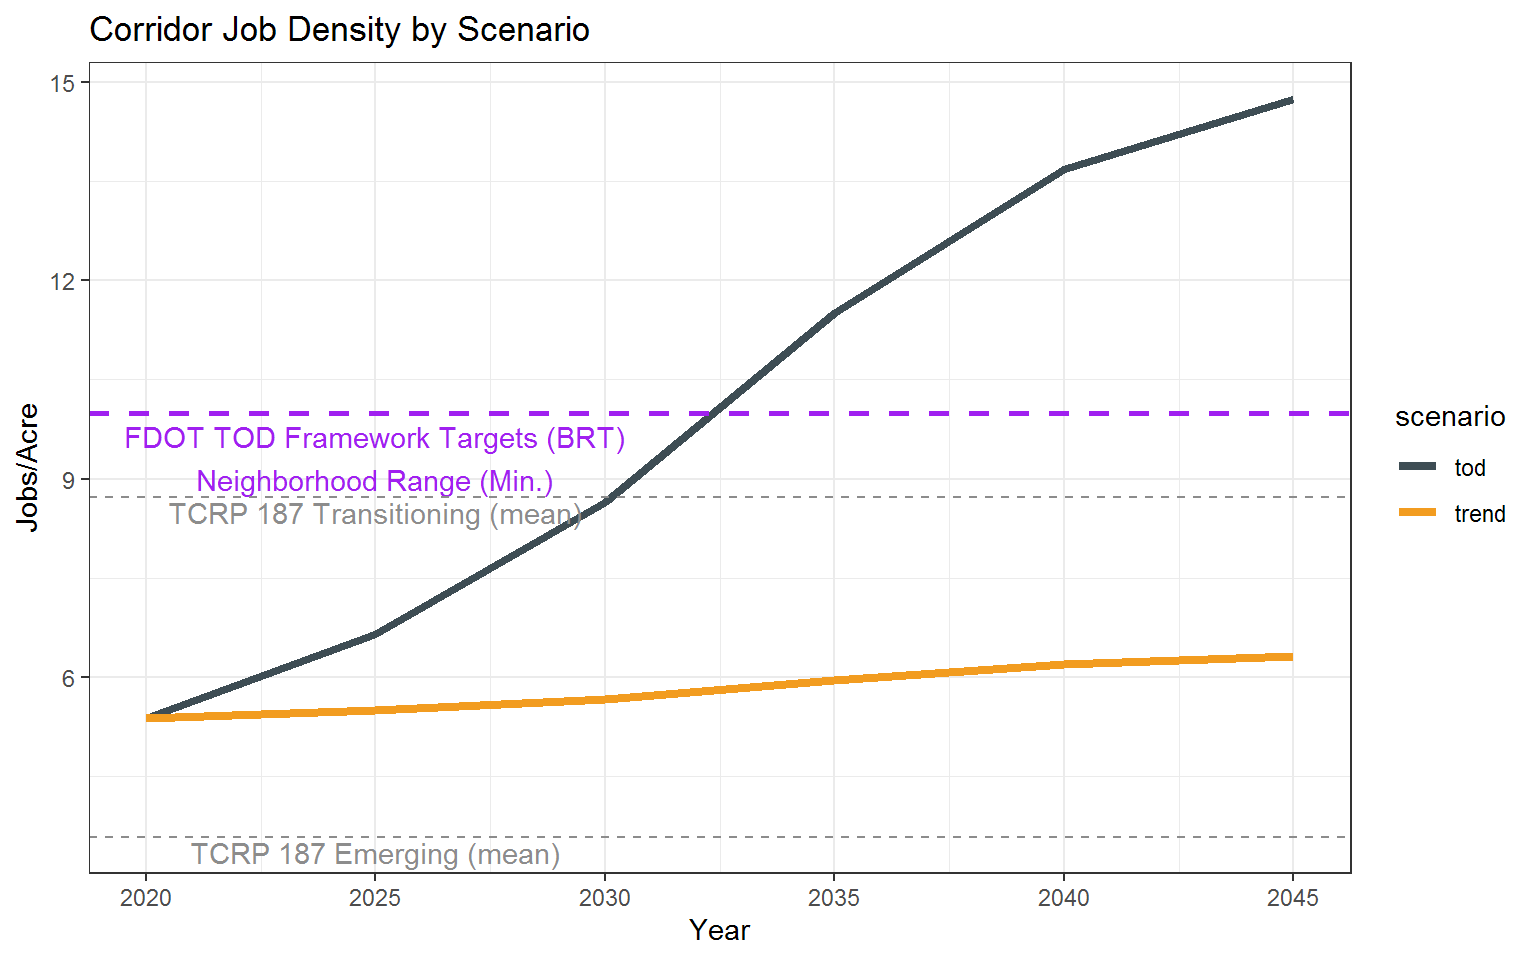
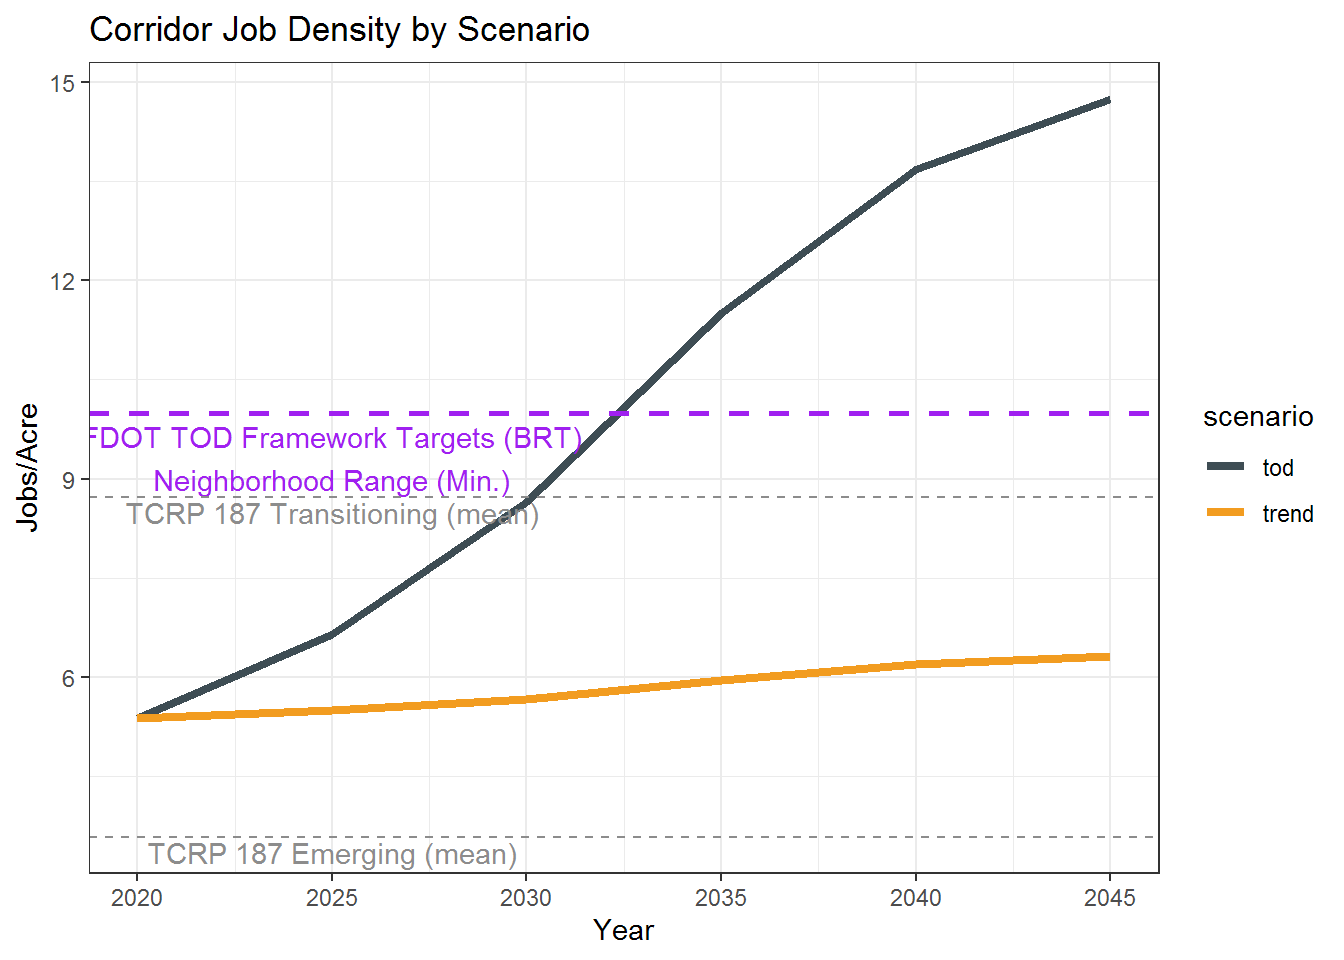
update charts

diff --git a/docs/corridor_station_area_growth.html b/docs/corridor_station_area_growth.html
@@ -391,15 +391,26 @@ div.tocify {
 <p>Methodology note: jobs and dwelling units were estimated using a area-weighted interpolation process, which assumes jobs and housing are equally spread across each TAZ. Densities were calculated using land area for each TAZ, which was calculated by removing all area in each TAZ designated as water by FDEP.</p>
 <div id="corridor-dwelling-unit-density" class="section level2">
 <h2>Corridor Dwelling Unit Density</h2>
-<p><img src="corridor_station_area_growth_files/figure-html/plot%20trend%20corridor%20DU%20relative%20to%20benchmark-1.png" width="768" /></p>
+<p><img src="corridor_station_area_growth_files/figure-html/plot%20trend%20corridor%20DU%20relative%20to%20benchmark-1.png" width="672" /></p>
 </div>
 <div id="corridor-employment-density-by-scenario" class="section level2">
 <h2>Corridor Employment Density by Scenario</h2>
-<p><img src="corridor_station_area_growth_files/figure-html/plot%20corridor%20EMP%20relative%20to%20benchmark-1.png" width="768" /></p>
+<p><img src="corridor_station_area_growth_files/figure-html/plot%20corridor%20EMP%20relative%20to%20benchmark-1.png" width="672" /></p>
 </div>
 <div id="station-area-dwelling-unit-density" class="section level2">
 <h2>Station Area Dwelling Unit Density</h2>
 <p><img src="corridor_station_area_growth_files/figure-html/plot%20station%20area%20DU%20density-1.png" width="960" /></p>
+</div>
+<div id="tod-scenario-density-increase-over-trend-scenario-per-station-area" class="section level2">
+<h2>TOD Scenario Density Increase Over Trend Scenario per Station Area</h2>
+<div id="dwelling-unit-difference-per-5-year-increment" class="section level3">
+<h3>Dwelling Unit Difference Per 5-Year Increment</h3>
+<p><img src="corridor_station_area_growth_files/figure-html/unnamed-chunk-2-1.png" width="672" /></p>
+</div>
+<div id="employment-difference-per-5-year-increment" class="section level3">
+<h3>Employment Difference Per 5-Year Increment</h3>
+<p><img src="corridor_station_area_growth_files/figure-html/unnamed-chunk-3-1.png" width="672" /></p>
+</div>
 <div id="table-of-dwelling-unit-density-values-by-station-area" class="section level3">
 <h3>Table of Dwelling Unit Density Values by Station Area</h3>
 <div id="trend-scenario" class="section level4">
@@ -1327,6 +1338,9 @@ tod_emp_35_final
 <th style="text-align:right;">
 tod_emp_40_final
 </th>
+<th style="text-align:right;">
+tod_emp_45_final
+</th>
 </tr>
 </thead>
 <tbody>
@@ -1349,6 +1363,9 @@ Lakeland Intermodal Center - Downtown West Site
 <td style="text-align:right;">
 28.73
 </td>
+<td style="text-align:right;">
+28.85
+</td>
 </tr>
 <tr>
 <td style="text-align:left;">
@@ -1368,6 +1385,9 @@ Lakeland Square
 </td>
 <td style="text-align:right;">
 18.41
+</td>
+<td style="text-align:right;">
+21.50
 </td>
 </tr>
 <tr>
@@ -1389,6 +1409,9 @@ Bella Vista St
 <td style="text-align:right;">
 10.42
 </td>
+<td style="text-align:right;">
+11.69
+</td>
 </tr>
 <tr>
 <td style="text-align:left;">
@@ -1408,6 +1431,9 @@ Crevasse Street
 </td>
 <td style="text-align:right;">
 8.82
+</td>
+<td style="text-align:right;">
+10.08
 </td>
 </tr>
 <tr>
@@ -1429,6 +1455,9 @@ Parkview Place
 <td style="text-align:right;">
 9.85
 </td>
+<td style="text-align:right;">
+10.19
+</td>
 </tr>
 <tr>
 <td style="text-align:left;">
@@ -1448,6 +1477,9 @@ North Massachussetts Ave.
 </td>
 <td style="text-align:right;">
 13.50
+</td>
+<td style="text-align:right;">
+13.82
 </td>
 </tr>
 </tbody>
@@ -1671,6 +1703,9 @@ tod_emp_35_final
 tod_emp_40_final
 </th>
 <th style="text-align:right;">
+tod_emp_45_final
+</th>
+<th style="text-align:right;">
 acres
 </th>
 </tr>
@@ -1696,6 +1731,9 @@ Lakeland Intermodal Center - Downtown West Site
 14433
 </td>
 <td style="text-align:right;">
+14495
+</td>
+<td style="text-align:right;">
 502
 </td>
 </tr>
@@ -1717,6 +1755,9 @@ Lakeland Square
 </td>
 <td style="text-align:right;">
 9248
+</td>
+<td style="text-align:right;">
+10801
 </td>
 <td style="text-align:right;">
 502
@@ -1742,6 +1783,9 @@ Bella Vista St
 5233
 </td>
 <td style="text-align:right;">
+5872
+</td>
+<td style="text-align:right;">
 502
 </td>
 </tr>
@@ -1763,6 +1807,9 @@ Crevasse Street
 </td>
 <td style="text-align:right;">
 4433
+</td>
+<td style="text-align:right;">
+5066
 </td>
 <td style="text-align:right;">
 502
@@ -1788,6 +1835,9 @@ Parkview Place
 4951
 </td>
 <td style="text-align:right;">
+5121
+</td>
+<td style="text-align:right;">
 502
 </td>
 </tr>
@@ -1809,6 +1859,9 @@ North Massachussetts Ave.
 </td>
 <td style="text-align:right;">
 6781
+</td>
+<td style="text-align:right;">
+6942
 </td>
 <td style="text-align:right;">
 502
